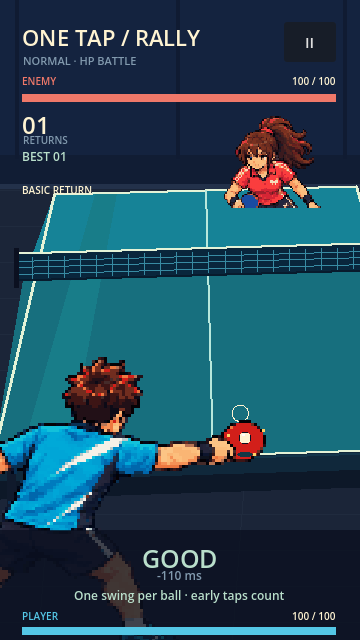
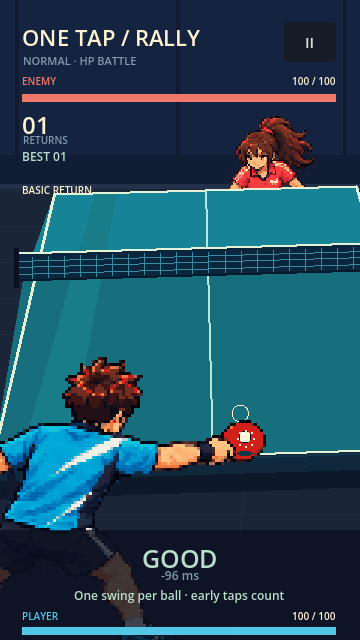
Define graphics contract and correct opponent occlusion

Changed region(s): [[0.6111, 0.2812, 0.8861, 0.3438], [0.4278, 0.875, 0.55, 0.9062], [0.6722, 0.6562, 0.7028, 0.7188]]

diff --git a/docs/GRAPHICS_CONTRACT.md b/docs/GRAPHICS_CONTRACT.md
@@ -1,0 +1,42 @@
+# 그래픽 제작·교체 계약 v1
+
+새 선수, 탁구대, 공, 배경을 만들기 **전에** 이 계약을 기준으로 제작한다. 플레이 규칙과 그래픽은 분리되어 있으므로 그래픽을 교체해도 판정 시각·HP·AI가 바뀌지 않아야 한다. 현재 값은 프로토타입 화면에서 검증한 기준이며, iPhone에서 크기와 가독성을 확인한 뒤 화면 배율만 조정할 수 있다.
+
+## 1. 공통 화면 좌표
+
+- 고정 시점: 플레이어 등 뒤에서 약간 높은 2D 화면. 내부 캔버스 360×640, 세로 9:16, Nearest. 카메라 이동은 없다.
+- 탁구대 좌표: `x=-1` 왼쪽 가장자리, `x=1` 오른쪽 가장자리, `depth=0` 상대 쪽 먼 가장자리, `depth=1` 플레이어 쪽 가까운 가장자리. `height`는 화면에서 위로 올릴 픽셀 수다.
+- 투영의 **단일 기준값**은 [`assets/table/layout.json`](../assets/table/layout.json)이다. 실제 공·그림자·접촉점은 `CourtView.project_point()`로 투영하고, 탁구대·네트 PNG는 `tools/assets/build_court.py`가 같은 값으로 생성한다. 원근을 바꿀 때 둘을 함께 재생성·검사한다.
+- 양쪽 라켓의 논리 접촉점은 패턴 Resource의 `start_point`/`hit_point`다. 미술 작업에서 타격점을 옮겨 타이밍을 맞추지 않는다. 모든 패턴의 목표점은 동일한 플레이어 위치로 수렴한다.
+
+## 2. 화면 가림 순서
+
+뒤에서 앞으로: **배경 → 상대 전신 → 탁구대 본체/상판 → 먼 쪽 공 → 네트 → 플레이어 전신 → 가까운 쪽 공 → 타격·피격 효과 → UI**. 탁구대의 불투명 상판이 상대 하반신을 실제 원근 경계에서 가린다. 2026-10-14에 이전의 고정 `y=208` 상대 잘라내기를 제거했다. 화면 Y좌표에 맞춘 임의의 캐릭터 잘라내기를 새로 추가하지 않는다.
+
+이 순서는 현재 상대가 **탁구대 뒤에 서는** 구도에 맞다. 앞으로 상대의 손/라켓이 탁구대 앞까지 뻗는 그림을 원한다면, 그 포즈는 `body_back`과 `arm_front`처럼 깊이 레이어를 나눈 별도 에셋이 필요하다. 지금의 단일 PNG 시트를 탁구대 위에 통째로 올리면 다시 몸이 상판을 뚫고 보인다. 배경·상판·네트·캐릭터를 하나의 완성 화면 PNG로 합치지 않는다.
+
+## 3. 교체 가능한 에셋 단위
+
+| 종류 | 현재 계약 | 교체 시 지켜야 할 점 |
+|---|---|---|
+| 플레이어/상대 | 역할별 128×128 투명 프레임; Idle 4, Swing 6, Miss 4; SpriteFrames와 `manifest.json` | 같은 역할·시점, 동일 발 pivot과 라켓 접촉점, 프레임 간 발 위치. 새 캐릭터는 별도 폴더에 같은 구조를 두고 `layout.json`의 `player_character` 또는 `enemy_character` ID를 바꾼다. |
+| 탁구대 | 360×640 투명 `table_main.png` | 상판의 먼/가까운 경계가 `layout.json` 투영과 일치해야 한다. 상대를 가릴 부분은 불투명하게 유지한다. |
+| 네트 | 360×640 투명 `table_net.png` | `net_depth`와 양쪽 포스트 위치를 일치시킨다. 먼 공 뒤/가까운 공 앞의 기준이다. |
+| 공·그림자 | 중심 pivot의 12×12/16×6 투명 PNG | 공의 중심은 궤적 좌표에, 그림자는 같은 x/depth의 지면 좌표에 둔다. 강한 공 색상 변형에도 실루엣이 읽혀야 한다. |
+| 배경 | 360×640 불투명 PNG | 선수/공보다 낮은 대비, 주요 UI와 접촉점 주변은 단순하게 유지한다. |
+| UI·효과 | 별도 CanvasLayer/표시 효과 | 게임 규칙을 직접 변경하지 않고 전투 이벤트만 받아 표시한다. |
+
+**128×128은 캐릭터의 원본 셀 크기이지 게임에서 보이는 크기가 아니다.** 현재 `player_scale=3`, `enemy_scale=1.55`라 상대의 1픽셀은 화면에서 균일한 정수 픽셀이 아니다. 이는 프로토타입의 구도 조정값이며, 최종 캐릭터를 대량 제작하기 전 iPhone 화면에서 도트 선명도와 상대 크기를 검토해야 한다. 필요하면 더 적합한 원본 크기/정수 배율로 에셋 전체를 함께 바꾼다. 개별 캐릭터마다 임의로 스케일을 달리해 접촉점을 맞추지 않는다.
+
+## 4. 새 그래픽 투입 절차
+
+1. 같은 역할의 기존 에셋을 복사해 **한 종류만** 교체한다. 새 캐릭터 폴더에서는 `frames.tres`의 PNG 경로도 새 파일로 갱신한다. 원본 생성 파일과 게임용 PNG를 구분하고, ID·크기·프레임 수·pivot·라켓 접촉점·알파 여부를 `manifest.json` 또는 제작 기록에 남긴다.
+2. 이미지의 머리/발/라켓 끝이 셀 경계에 잘리지 않는지, 프레임 사이 기준점이 흔들리지 않는지 확인한다. 배경과 탁구대는 레이어 분리와 원근 경계를 확인한다.
+3. Godot import 후 `tests/run_tests.gd`, `tests/character_render_smoke.gd`, `tests/phase3_render_smoke.gd`로 5패턴×3난이도·Idle/Swing/Miss·탁구대 가림·접촉을 확인한다. 정면/후면 시점이 섞이거나 네트 앞뒤가 뒤집히면 통합하지 않는다.
+4. 실제 iPhone에서 구도·도트 밀도·글자·공 대비를 확인한다. 이 단계는 아직 미검증이며 사용자가 나중에 실행해 피드백할 예정이다.
+
+## 5. 현재 뼈대와 확장 시점
+
+이미 있는 뼈대는 `layout.json`(투영·캐릭터 슬롯), 패턴 Resource(논리 궤적/타격점), 캐릭터 `manifest.json`+`frames.tres`(프레임/기준점), 분리된 배경·탁구대·네트·공 PNG, BattleUI(CanvasLayer)다. 이번에는 화면 가림 순서와 검증을 바로잡았다.
+
+아직 **캐릭터 선택/스킨 카탈로그, 앞·뒤로 나뉜 팔 애니메이션, 최종 UI/폰트**는 없다. 새 그래픽 종류를 대량으로 만들기 전에 어떤 변형이 필요한지 정하고, 그 변형이 현재 계약에서 교체만으로 가능한지 확인한다. 여러 선수나 테이블 테마를 실제 게임에서 선택하도록 만들 때는 역할/ID를 선언하는 카탈로그를 추가한다. 현재 두 역할만을 위해 추상적인 범용 에셋 시스템을 먼저 만들 필요는 없다.

diff --git a/README.md b/README.md
@@ -48,7 +48,7 @@ godot --path . --audio-driver Dummy --max-fps 60 --script tests/phase2_render_sm
 
 화면 캡처는 각각 `user://phase1-smoke/`, `user://phase2-smoke/`에 저장된다. `-- /절대/출력/폴더`를 뒤에 붙이면 출력 폴더를 지정할 수 있다. `render_smoke.gd`는 자동 입력 전용 테스트이며 일반 플레이에 자동 입력이 포함되지 않는다.
 
-이번 환경: headless **2,636개 검사 통과**. Linux 가상 X11/OpenGL에서 Phase 3의 5패턴×3난이도와 Phase 5의 Perfect/피격/승패/사운드 토글 화면 검사를 통과했다. 테스트 시계로 장면을 재현했으며 사람의 직접 플레이와 iPhone 체감은 사용자 요청에 따라 개발 후에 확인한다.
+이번 환경: headless **2,637개 검사 통과**. Linux 가상 X11/OpenGL에서 Phase 3의 5패턴×3난이도, 캐릭터와 탁구대 가림, Phase 5의 Perfect/피격/승패/사운드 토글 화면 검사를 통과했다. 테스트 시계로 장면을 재현했으며 사람의 직접 플레이와 iPhone 체감은 사용자 요청에 따라 개발 후에 확인한다.
 
 ## 데이터 및 구조
 - `resources/balance/timing.tres`: 판정창(ms), 터치 보정(ms), 서브 대기(s).
@@ -63,6 +63,7 @@ godot --path . --audio-driver Dummy --max-fps 60 --script tests/phase2_render_sm
 - [원문](docs/MASTER_PROMPT.md) / [개발 규칙](AGENTS.md)
 - [기획](docs/GAME_DESIGN.md) / [기술 구조](docs/ARCHITECTURE.md)
 - [에셋 규격](docs/ASSET_SPEC.md) / [로드맵](docs/ROADMAP.md)
+- [새 그래픽 제작·교체 계약](docs/GRAPHICS_CONTRACT.md)
 - [환경](docs/ENVIRONMENT.md) / [Phase 1 계획 및 검수](docs/PHASE1_PLAN.md)
 - [Phase 0 검증](docs/VALIDATION.md) / [Phase 1 검증](docs/PHASE1_VALIDATION.md)
 

diff --git a/docs/PHASE4_COURT_VALIDATION.md b/docs/PHASE4_COURT_VALIDATION.md
@@ -12,3 +12,7 @@
 화면 캡처는 자동 테스트 시계와 fixture를 썼다. 사람의 직접 플레이, iPhone과 최종 미감은 아직 검수하지 않았다. 시안과 완전히 동일한 일러스트라는 의미는 아니며, 화면 투영과 배치에 맞춘 실제 게임용 픽셀 그래픽 초안이다. UI/효과/사운드와 나머지 캐릭터 상태는 후속 작업이다.
 
 [경기 화면](previews/rear-court-game.png) / [대기 화면](previews/rear-court-idle.png) / [원본 시안](concepts/focused-court-v3.png) / [사용자 검수](USER_QA.md)
+
+## 2026-10-14 가림 순서 보정
+
+사용자 검토에서 상대가 탁구대 상판과 겹쳐 보이는 문제를 확인했다. 원인은 상대 전신을 상판 위에 그린 뒤 화면 `y=208`에서 잘라낸 고정 클립이었다. 상대를 탁구대 뒤에 먼저 그리고 상판이 실제 원근 경계에서 하반신을 가리도록 순서를 바꿨다. 이전 캡처의 (250,205) 픽셀에는 상대 스프라이트가 있었고, 수정 후에는 탁구대 픽셀과 일치한다. 캐릭터 렌더 검사에 이 조건을 추가했다. 새 그래픽 제작 기준은 [그래픽 계약](GRAPHICS_CONTRACT.md)에 정리했다. Godot 4.6.3에서 엔진 2,637검사 및 캐릭터/Phase 3/Phase 5 화면 검사 통과. iPhone 수동 미감 검수는 남아 있다.
